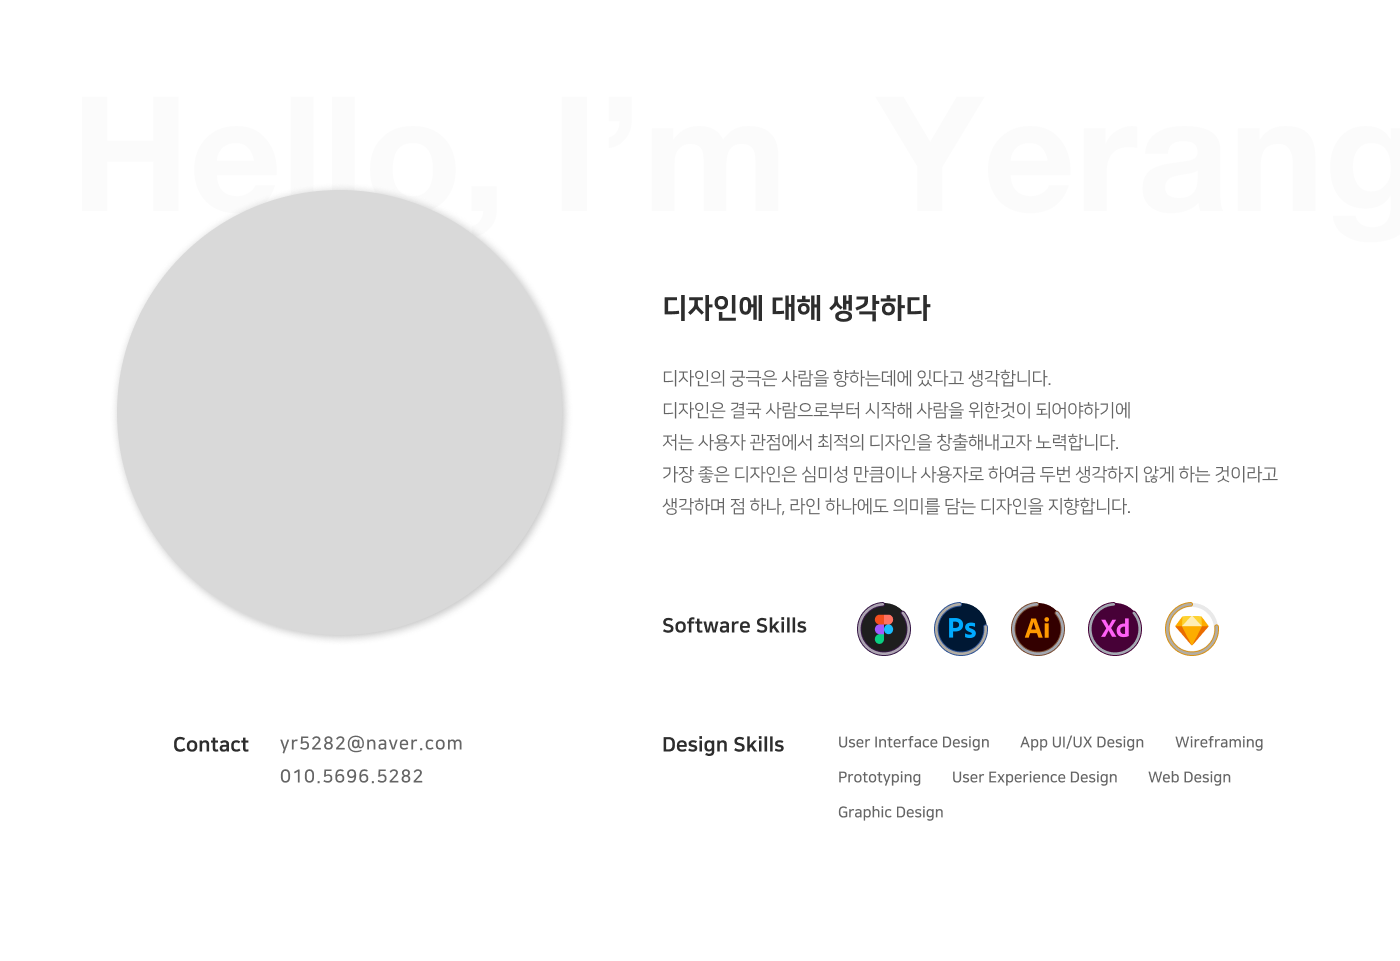
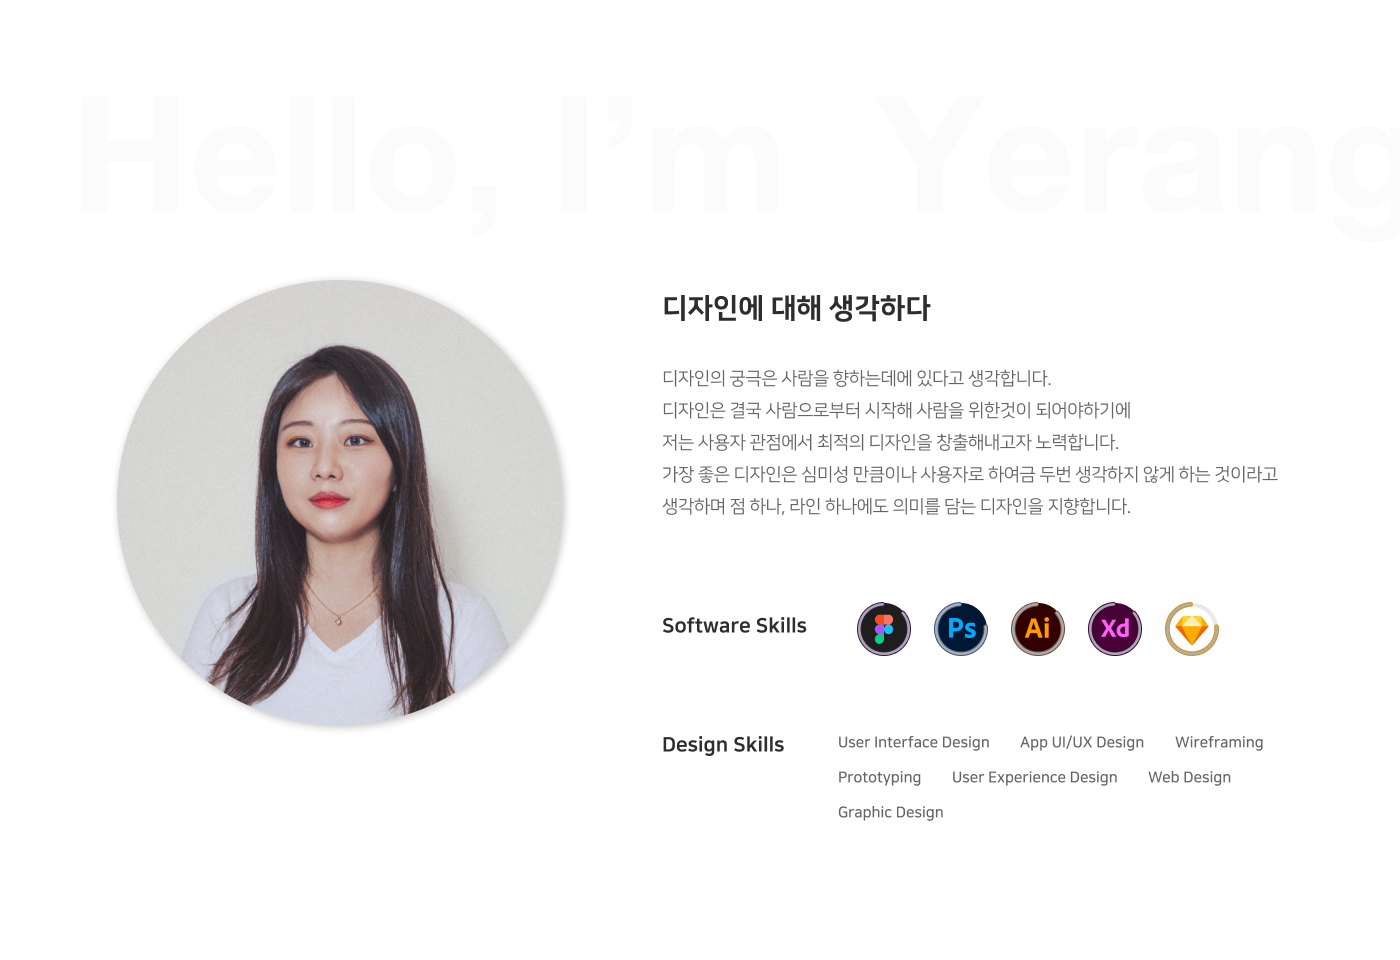
final

diff --git a/portfolio/css/style.css b/portfolio/css/style.css
@@ -1,8 +1,7 @@
 /* main Contents */
 .project_list {
 	padding-top: 100px;
-	margin-bottom: 100px;	
-	/* min-height: 1200px;  */
+	padding-bottom: 100px;	
 }
 .project_list li {
 	float: left;
@@ -91,7 +90,11 @@
 /* sub_portfolio page_Contents */
 .sub_img {
 	margin: 0 auto;
-	margin-top: 100px;
+	padding-top: 50px;
+}
+
+.img_long {
+	padding-top: 100px;
 }
 
 

diff --git a/portfolio/Project/03-Hompage.html b/portfolio/Project/03-Hompage.html
@@ -26,7 +26,7 @@
         </div> <!-- // headerWrap -->
 
         <div id="Contents">
-            <div class="sub_img box_width"><img src="../img/HOMEPAGE_RENEWAL.png"></div>
+            <div class="sub_img img_long box_width"><img src="../img/HOMEPAGE_RENEWAL.png"></div>
 		
             <div class="top_Btn">
 				<a href="#header">

diff --git a/portfolio/Project/01-Hotsunglass.html b/portfolio/Project/01-Hotsunglass.html
@@ -26,7 +26,7 @@
         </div> <!-- // headerWrap -->
 
         <div id="Contents">
-            <div class="sub_img box_width"><img src="../img/HOTSUNGLASS.png"></div>
+            <div class="sub_img img_long box_width"><img src="../img/HOTSUNGLASS.png"></div>
 		
             <div class="top_Btn">
 				<a href="#header">

diff --git a/portfolio/Project/04-FoodDigger.html b/portfolio/Project/04-FoodDigger.html
@@ -26,7 +26,7 @@
         </div> <!-- // headerWrap -->
 
         <div id="Contents">
-            <div class="sub_img box_width"><img src="../img/FOODDIGGER.png"></div>
+            <div class="sub_img img_long box_width"><img src="../img/FOODDIGGER.png"></div>
 		
             <div class="top_Btn">
 				<a href="#header">

diff --git a/portfolio/Project/02-MASQ.html b/portfolio/Project/02-MASQ.html
@@ -26,7 +26,7 @@
         </div> <!-- // headerWrap -->
 
         <div id="Contents">
-            <div class="sub_img box_width"><img src="../img/MASQ.png"></div>
+            <div class="sub_img img_long box_width"><img src="../img/MASQ.png"></div>
 		
             <div class="top_Btn">
 				<a href="#header">

diff --git a/portfolio/contact.html b/portfolio/contact.html
@@ -26,7 +26,7 @@
         </div> <!-- // headerWrap -->
 
         <div id="Contents">
-            <div class="sub_img box_width"><img src="img/about.png"></div>
+            <div class="sub_img img_long box_width"><img src="img/Contact.png"></div>
 		
             <div class="top_Btn">
 				<a href="#header">

diff --git a/portfolio/about.html b/portfolio/about.html
@@ -26,7 +26,7 @@
         </div> <!-- // headerWrap -->
 
         <div id="Contents">
-            <div class="sub_img box_width"><img src="img/about.png"></div>
+            <div class="sub_img img_long box_width"><img src="img/about.png"></div>
 		
             <div class="top_Btn">
 				<a href="#header">

diff --git a/portfolio/css/common.css b/portfolio/css/common.css
@@ -131,7 +131,7 @@ table {border-collapse: collapse;}
 	clear: both;
 	display: block;
 	padding-bottom: 100px;
-	padding-top: 0px;
+	padding-top: 50px;
 	text-align: center;
 }
 
